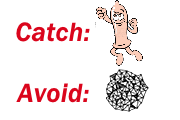
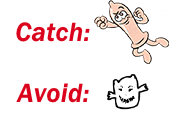
Updated images and questionmodal

Changed region(s): [[0.5, 0.0, 0.9444, 0.55], [0.5833, 0.575, 0.8333, 0.95]]

diff --git a/app/js/prefabs/questionModal.js b/app/js/prefabs/questionModal.js
@@ -18,21 +18,21 @@ var QuestionModal = function(game, parent) {
     // Add the question
     this.questions = game.state.states.Game.questions.questions;
     this.question = this.questions[Math.floor(Math.random()*this.questions.length)];
-    var style = { font: "18px Arial", fill: "#fff", align: "center" };
+    var style = { font: "16px Arial", fill: "#fff", align: "center" };
 
-    this.questionText = this.game.add.text(-75, -95, this.question.statement, style);
+    this.questionText = this.game.add.text(-65, -90, this.question.statement, style);
     this.questionText.wordWrap = true;
     this.questionText.wordWrapWidth = 200;
     this.questionText.align = 'center';
 
     // add our True button with a callback
-    this.answerButton1 = this.game.add.button(-125, 20, 'buttonTrue', this.answerButtonClick1, this);
-    this.answerButton1.width = 95;
+    this.answerButton1 = this.game.add.button(-80, 30, 'buttonTrue', this.answerButtonClick1, this);
+    this.answerButton1.width = 60;
     this.answerButton1.inputEnabled = true;
 
     // add our False button with a callback
-    this.answerButton2 = this.game.add.button(15, 20, 'buttonFalse', this.answerButtonClick2, this);
-    this.answerButton2.width = 95;
+    this.answerButton2 = this.game.add.button(20, 30, 'buttonFalse', this.answerButtonClick2, this);
+    this.answerButton2.width = 60;
     this.answerButton2.inputEnabled = true;
 
     this.questionmodalGroup.add(this.questionmodal);
@@ -88,7 +88,7 @@ QuestionModal.prototype.showAnswer = function(text, correctAnswer) {
     this.answerButton1.destroy();
     this.answerButton2.destroy();
 
-    var style = { font: "18px Arial", fill: "#fff", align: "center" };
+    var style = { font: "16px Arial", fill: "#fff", align: "center" };
     this.answerText = this.game.add.text(-75, -95, text, style);
     this.answerText.wordWrap = true;
     this.answerText.wordWrapWidth = 200;
@@ -96,7 +96,7 @@ QuestionModal.prototype.showAnswer = function(text, correctAnswer) {
 
     this.okButton = this.game.add.button(-40, 30, 'buttonOk', this.okButtonClick, this);
     this.okButton.inputEnabled = true;
-    this.okButton.width = 75;
+    this.okButton.width = 60;
 
     this.questionmodalGroup.add(this.okButton);
     this.questionmodalGroup.add(this.answerText);
